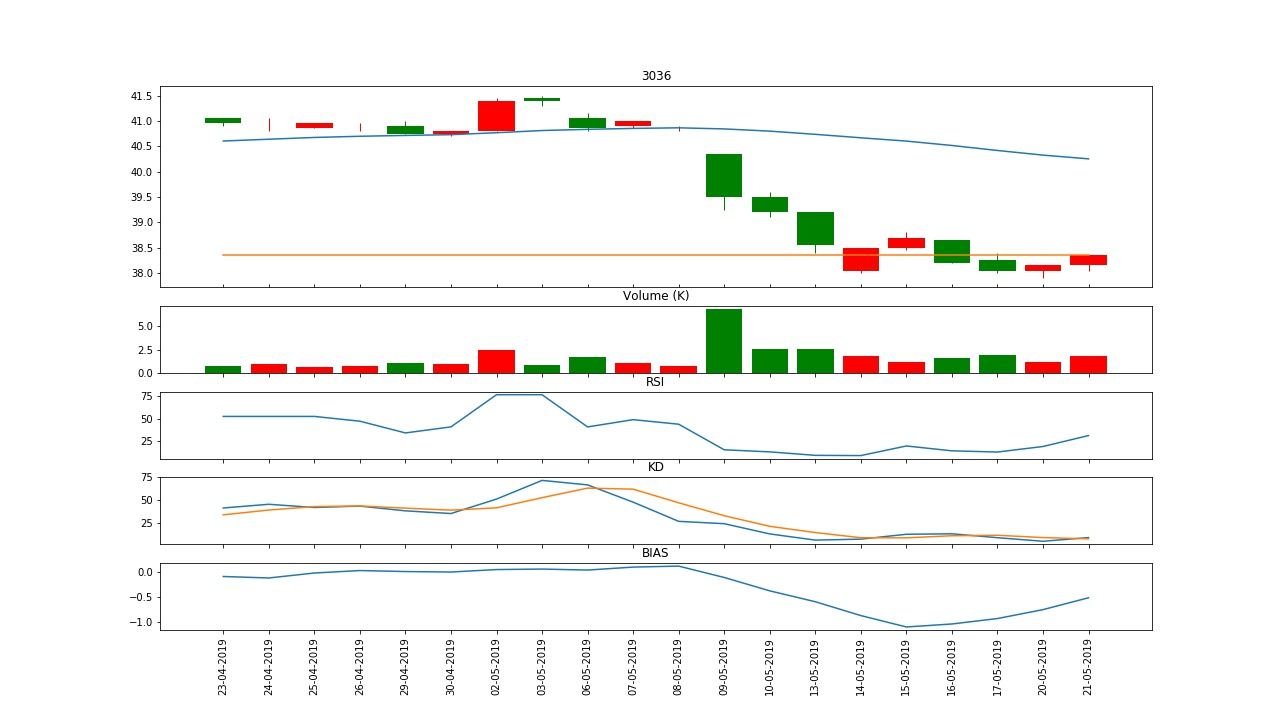
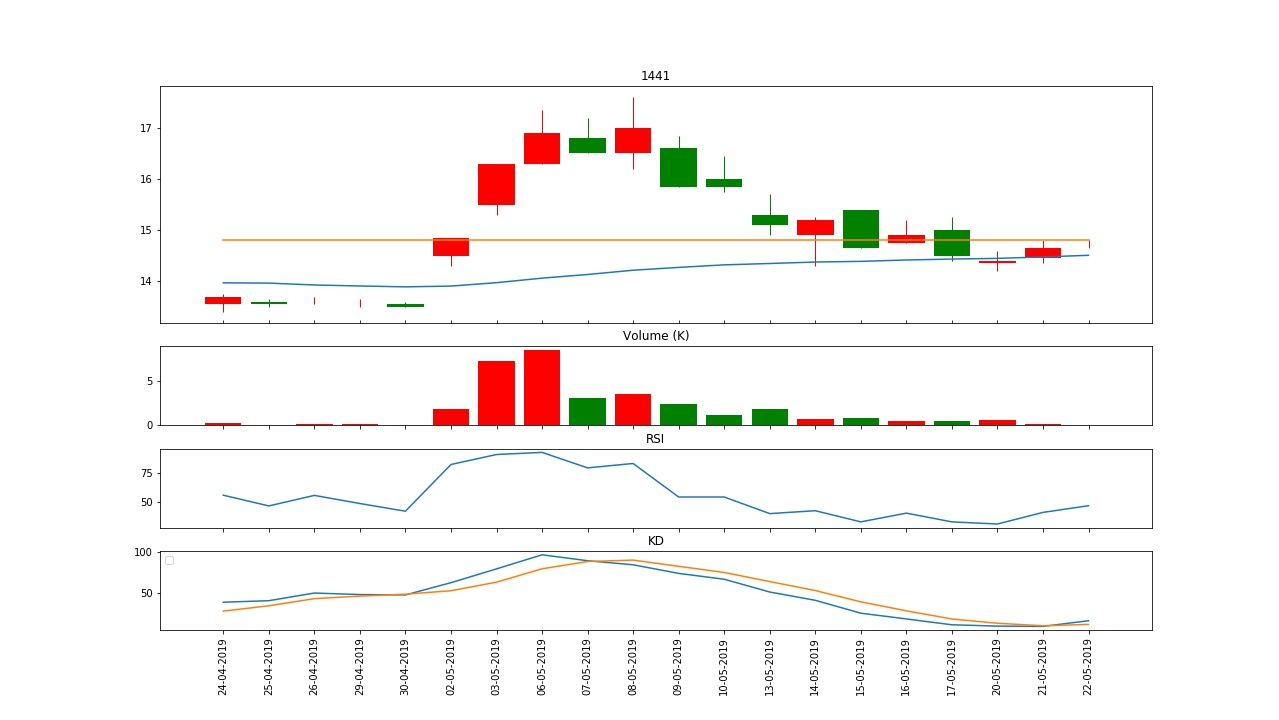
fix

diff --git a/stock.py b/stock.py
@@ -24,31 +24,24 @@ from plot_candles import *
 stock_list = ['2484','3036','3289','1441']
 #,'00677U'
 
-def moving_average(data, days):
-    result = []
-    data = data[:]
-    for _ in range(len(data) - days + 1):
-        result.append(round(sum(data[-days:]) / days, 2))
-        data.pop()
-    return result[::-1]
 
-def ma_bias_ratio(price, day1, day2):
+
+def ma_bias_ratio(price, day1):
     """Calculate moving average bias ratio"""
     price = list(price)
-    data1 = moving_average(price, day1)
-    data2 = moving_average(price, day2)
-    result = [data1[-i] - data2[-i] for i in range(1, min(len(data1), len(data2)) + 1)]
-    return result[::-1]
+    average = np.mean(price)
+    price_now = price[-1]
+    return (price_now-average)/average*100
 
 class stock_monitor(object):
     def __init__(self):    
         self. save_stock_data = {}
         self.msg = ""
         ###群組的
-        self.token = "Z5Cg6UUou2ipMn2orBmEm4rZ6b7nbBBhbctzff9Ch2u"
+#        self.token = "Z5Cg6UUou2ipMn2orBmEm4rZ6b7nbBBhbctzff9Ch2u"
         
         ##1:1test
-#        self.token = "tvDdPhFVpc2Dafuk6SOuez7arByOG4mxBauVTAQXuZO"
+        self.token = "tvDdPhFVpc2Dafuk6SOuez7arByOG4mxBauVTAQXuZO"
 
     def get_real_stock(self,stockno):
         real_price = twstock.realtime.get(str(stockno))
@@ -145,22 +138,22 @@ class stock_monitor(object):
 #                            left_index=True, right_index=True).apply(
 #                                    lambda x: (3*x.K) - (2*x.D), axis = 1)
             
-            BIAS = [np.nan]*9+ma_bias_ratio(stock.close, 5, 10)
-            BIAS = pd.Series(BIAS)
-            BIAS.index = stock.index
-            
+
 
             price_now = self.real_price['realtime']['latest_trade_price']
             
             k = STOCH.K[-1]
             d = STOCH.D[-1]
             rsi = RSI[-1] 
-            bias = BIAS[-1]
+
             
             price = pd.Series(stock.close)
             highpeak = peakutils.indexes(price, thres=0.5, min_dist=30)[-1]
             lowpeak = peakutils.indexes(-price, thres=0.5, min_dist=30)[-1]
             up_now = highpeak<lowpeak
+            
+            days = len(stock)-min(highpeak,lowpeak)
+            bias = ma_bias_ratio(stock.close, 10)
 
             msg = self.real_price['info']['code']
             msg += self.real_price['info']['name']+'的股價: '
@@ -182,11 +175,11 @@ class stock_monitor(object):
             temp = time.strftime("%m/%d",temp)
             msg += '%s最近低點: %s \n' % (temp,stock.close[lowpeak])   
             
-            KD1 = (d<20) & (k>d)
+            KD1 = (k<20) & (d<20) & (k>d)
             if KD1:
                 msg +='up!!!   KD < 20 且 K > D' +'\n'
                 
-            KD2 = (d>80) & (k<d)
+            KD2 = (k>80) &(d>80) & (k<d)
             if KD2:
                 msg +='down!!! KD > 80 且 K < D' +'\n'
                 
@@ -239,8 +232,8 @@ class stock_monitor(object):
                     title = stockno,                      ## 名稱而已
                     volume_bars=True,               ## 畫不畫 量圖
                     overlays=[SMA,price_now],                    ##  跟股價圖 疊起來的是什麼指標
-                    technicals = [RSI, STOCH, BIAS],    ## 其他圖要畫甚麼
-                    technicals_titles=['RSI', 'KD','BIAS'] ## 其他圖的名稱
+                    technicals = [RSI, STOCH],    ## 其他圖要畫甚麼
+                    technicals_titles=['RSI', 'KD'] ## 其他圖的名稱
                     )        
             if KD1 or KD2 or RSI1 or RSI2 or self.sent_plot:
                 msg = self.real_price['info']['time']+'\n' + msg
@@ -258,8 +251,9 @@ class stock_monitor(object):
             print(msg)
 
     def sent_routing(self):
-        msg = self.real_price['info']['time']+'\n' + self.msg
-        lineNotify(self.token, msg)
+        if not self.msg:
+            msg = self.real_price['info']['time']+'\n' + self.msg
+            lineNotify(self.token, msg)
         
     
     def manual_monitor(self, stockno,sent_plot = False):
@@ -302,25 +296,27 @@ def start_monitor_no_alert():
 
 scheduler = BlockingScheduler()
 
-scheduler.add_job(start_monitor,
-                  trigger = 'cron',
-                  day_of_week='mon-fri', 
-                  hour=8, minute=30, end_date='2020-05-20')
+
 
 scheduler.add_job(start_monitor,
                   trigger = 'cron',
                   day_of_week='mon-fri', 
                   hour=9, minute=2, end_date='2020-05-20')
 
-scheduler.add_job(start_monitor_no_alert,
+scheduler.add_job(start_monitor,
                   trigger = 'cron',
                   day_of_week='mon-fri', 
-                  hour=10, minute=0, end_date='2020-05-20')
+                  hour=9, minute=30, end_date='2020-05-20')
 
 scheduler.add_job(start_monitor_no_alert,
                   trigger = 'cron',
                   day_of_week='mon-fri', 
-                  hour=11, minute=0, end_date='2020-05-20')
+                  hour=10, minute=30, end_date='2020-05-20')
+
+scheduler.add_job(start_monitor_no_alert,
+                  trigger = 'cron',
+                  day_of_week='mon-fri', 
+                  hour=11, minute=30, end_date='2020-05-20')
 
 scheduler.add_job(start_monitor,
                   trigger = 'cron',
